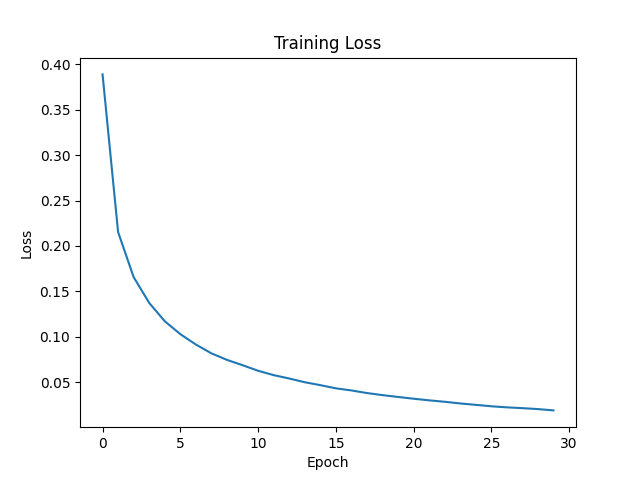
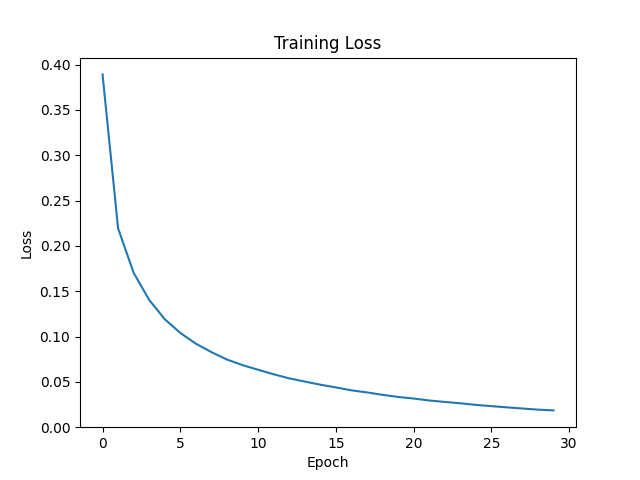
fixing predict.py

diff --git a/src/predict.py b/src/predict.py
@@ -1,25 +1,32 @@
 import numpy as np
-from PIL import Image
+from PIL import Image, ImageOps
 from model import MultiClassNN
+import sys
+
+def preprocess_image(image_path):
+    img = Image.open(image_path).convert("L")
+    img = ImageOps.invert(img)
+    img = img.point(lambda x: 0 if x < 200 else 255)  # was 128, now 200
+    bbox = img.getbbox()
+    if bbox:
+        img = img.crop(bbox)
+    img = img.resize((20, 20), Image.LANCZOS)
+    padded = Image.new("L", (28, 28), 0)
+    padded.paste(img, (4, 4))
+    X = np.array(padded) / 255.0
+    return X.reshape(784, 1)
 
 def predict(image_path):
-    # Load and preprocess image
-    img = Image.open(image_path).convert("L")  # grayscale
-    img = img.resize((28, 28))
-    X = np.array(img) / 255.0
-    X = X.reshape(784, 1)
+    X = preprocess_image(image_path)
 
-    # Load weights
     weights = np.load("weights.npy", allow_pickle=True).item()
     model = MultiClassNN(784, 64, 10)
     model.W1, model.b1 = weights["W1"], weights["b1"]
     model.W2, model.b2 = weights["W2"], weights["b2"]
 
-    # Predict
     A2, _ = model.forward(X)
     prediction = np.argmax(A2)
     print(f"Predicted Digit: {prediction}")
 
 if __name__ == "__main__":
-    import sys
     predict(sys.argv[1])